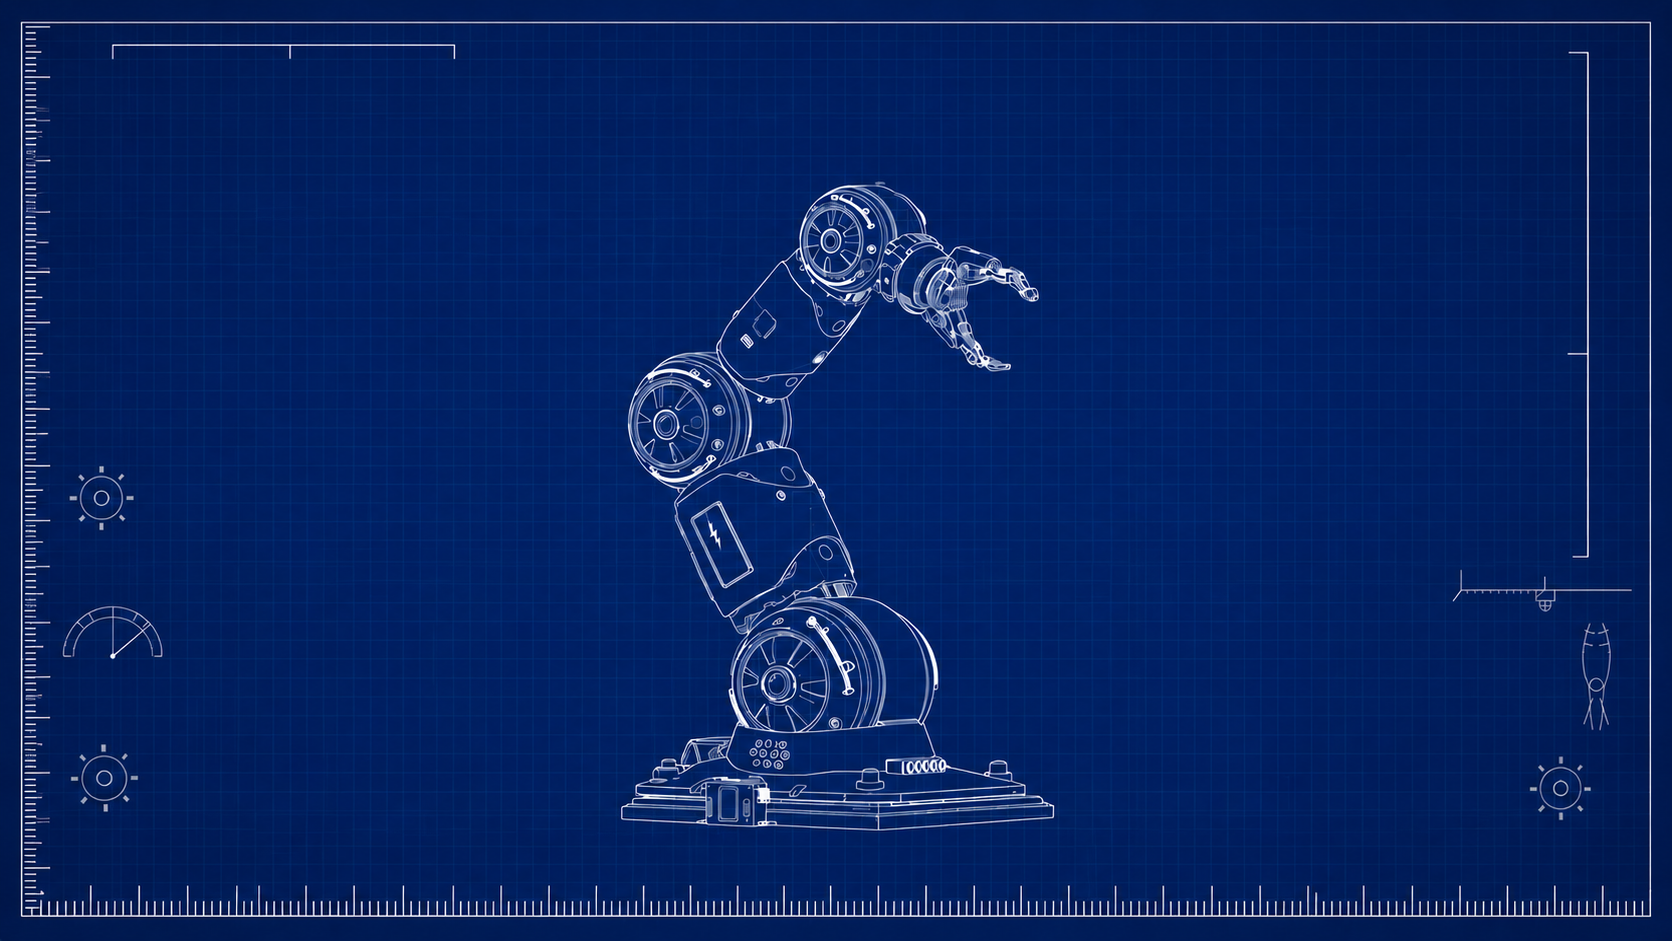
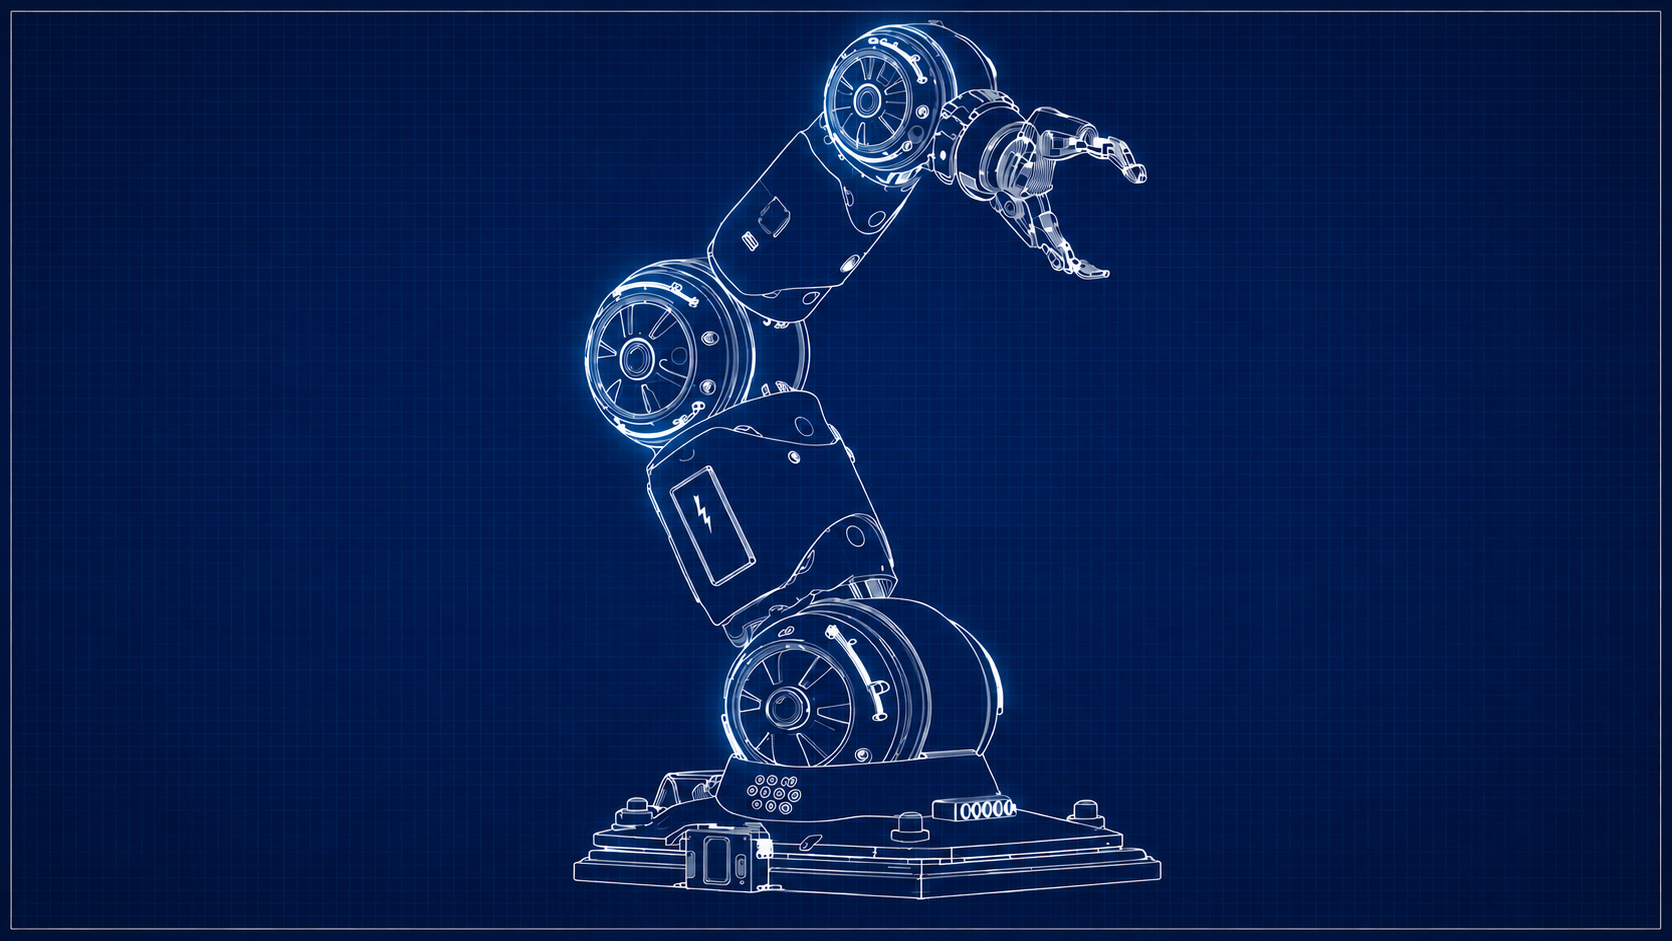
Swap arm artwork, recalibrate labels, add Contact axis, fix leader-line geometry bug

diff --git a/css/style.css b/css/style.css
@@ -182,7 +182,7 @@ html, body { height: 100%; overflow: hidden; }
     repeating-linear-gradient(90deg, rgba(255,255,255,0.16) 0 1px, transparent 1px 136px),
     repeating-linear-gradient(0deg, rgba(255,255,255,0.08) 0 1px, transparent 1px 34px),
     repeating-linear-gradient(90deg, rgba(255,255,255,0.08) 0 1px, transparent 1px 34px),
-    radial-gradient(ellipse at 50% 35%, #002a80 0%, #001f64 55%, #000f38 100%);
+    radial-gradient(ellipse at 50% 35%, #001f5c 0%, #00133e 55%, #000a22 100%);
   overflow: hidden;
 }
 .blueprint-hint {
@@ -205,7 +205,7 @@ html, body { height: 100%; overflow: hidden; }
 }
 .blueprint-arm-wrap {
   position: relative;
-  aspect-ratio: 1672 / 941;
+  aspect-ratio: 1671 / 941;
   max-width: 100%;
   max-height: 100%;
 }
@@ -233,7 +233,7 @@ html, body { height: 100%; overflow: hidden; }
   white-space: nowrap;
   text-shadow: 0 1px 5px rgba(0, 20, 70, 0.85);
 }
-.bp-fact-html.title { top: 1.5%; left: 50%; transform: translateX(-50%); font-size: 0.62rem; color: var(--accent); letter-spacing: 0.1em; }
+.bp-fact-html.title { bottom: 1.5%; left: 2%; font-size: 0.62rem; color: var(--accent); letter-spacing: 0.1em; }
 .bp-fact-html.corner.tr { top: 1.5%; right: 2%; }
 .bp-fact-html.corner.tr2 { top: 4.5%; right: 2%; }
 .bp-fact-html.corner.br { bottom: 5%; right: 2%; }
@@ -261,33 +261,41 @@ html, body { height: 100%; overflow: hidden; }
 }
 .arm-hotspot-leader {
   position: absolute;
-  background: rgba(255, 255, 255, 0.55);
-  transition: background 0.2s ease;
+  background: var(--accent);
+  opacity: 0.75;
+  box-shadow: 0 0 4px rgba(79, 195, 247, 0.6);
+  transition: opacity 0.2s ease;
 }
-.dir-right .arm-hotspot-leader { left: 0; top: 0; width: 68px; height: 1px; }
-.dir-left .arm-hotspot-leader { right: 0; top: 0; width: 68px; height: 1px; }
-.dir-up .arm-hotspot-leader { bottom: 0; left: 0; width: 1px; height: 68px; }
-.dir-down .arm-hotspot-leader { top: 0; left: 0; width: 1px; height: 68px; }
+.dir-right .arm-hotspot-leader { left: 0; top: 0; width: 95px; height: 1.5px; }
+.dir-left .arm-hotspot-leader { right: 0; top: 0; width: 100px; height: 1.5px; }
+.dir-up .arm-hotspot-leader { bottom: 0; left: 0; width: 1.5px; height: 90px; }
+.dir-down .arm-hotspot-leader { top: 0; left: 0; width: 1.5px; height: 90px; }
 .dir-up-right .arm-hotspot-leader,
 .dir-down-right .arm-hotspot-leader { display: none; }
 .dir-up-right .arm-hotspot-leader-h,
-.dir-down-right .arm-hotspot-leader-h { position: absolute; left: 0; width: 46px; height: 1px; background: rgba(255, 255, 255, 0.55); }
-.dir-up-right .arm-hotspot-leader-v { position: absolute; left: 0; width: 1px; height: 42px; background: rgba(255, 255, 255, 0.55); bottom: 0; }
-.dir-up-right .arm-hotspot-leader-h { bottom: 42px; }
-.dir-down-right .arm-hotspot-leader-v { position: absolute; left: 0; width: 1px; height: 42px; background: rgba(255, 255, 255, 0.55); top: 0; }
-.dir-down-right .arm-hotspot-leader-h { top: 42px; }
+.dir-down-right .arm-hotspot-leader-h { position: absolute; left: 0; width: 60px; height: 1.5px; background: var(--accent); opacity: 0.75; box-shadow: 0 0 4px rgba(79, 195, 247, 0.6); }
+.dir-up-right .arm-hotspot-leader-v { position: absolute; left: 0; width: 1.5px; height: 55px; background: var(--accent); opacity: 0.75; box-shadow: 0 0 4px rgba(79, 195, 247, 0.6); bottom: 0; }
+.dir-up-right .arm-hotspot-leader-h { bottom: 55px; }
+.dir-down-right .arm-hotspot-leader-v { position: absolute; left: 0; width: 1.5px; height: 55px; background: var(--accent); opacity: 0.75; box-shadow: 0 0 4px rgba(79, 195, 247, 0.6); top: 0; }
+.dir-down-right .arm-hotspot-leader-h { top: 55px; }
 .arm-hotspot-label {
   position: absolute;
   display: flex;
   flex-direction: column;
   font-family: var(--font-mono);
 }
-.dir-right .arm-hotspot-label { left: 72px; top: 50%; transform: translateY(-50%); }
-.dir-left .arm-hotspot-label { right: 72px; top: 50%; transform: translateY(-50%); text-align: right; }
-.dir-up .arm-hotspot-label { bottom: 72px; left: 50%; transform: translateX(-50%); text-align: center; }
-.dir-down .arm-hotspot-label { top: 72px; left: 50%; transform: translateX(-50%); text-align: center; }
-.dir-up-right .arm-hotspot-label { bottom: 46px; left: 46px; }
-.dir-down-right .arm-hotspot-label { top: 46px; left: 46px; }
+.dir-right .arm-hotspot-label { left: 99px; top: 50%; transform: translateY(-50%); }
+.dir-left .arm-hotspot-label { right: 104px; top: 50%; transform: translateY(-50%); text-align: right; }
+.dir-up .arm-hotspot-label { bottom: 94px; left: 50%; transform: translateX(-50%); text-align: center; }
+.dir-down .arm-hotspot-label { top: 94px; left: 50%; transform: translateX(-50%); text-align: center; }
+.dir-up-right .arm-hotspot-label { bottom: 59px; left: 64px; }
+.dir-down-right .arm-hotspot-label { top: 59px; left: 64px; }
+
+/* base/01 and knuckle/06 sit deep in the arm's glow - need extra reach to clear it */
+.arm-hotspot[data-card="about"] .arm-hotspot-leader-h { width: 170px; }
+.arm-hotspot[data-card="about"] .arm-hotspot-label { left: 174px; }
+.arm-hotspot[data-card="morebuilds"] .arm-hotspot-leader { width: 145px; }
+.arm-hotspot[data-card="morebuilds"] .arm-hotspot-label { left: 149px; }
 .arm-hotspot-label b { font-size: 0.72rem; font-weight: 700; color: #fff; letter-spacing: 0.03em; white-space: nowrap; text-shadow: 0 1px 4px rgba(0, 8, 30, 0.9), 0 0 10px rgba(0, 8, 30, 0.7); }
 .arm-hotspot:hover .arm-hotspot-dot,
 .arm-hotspot:focus-visible .arm-hotspot-dot { transform: scale(1.5); }
@@ -338,7 +346,7 @@ html, body { height: 100%; overflow: hidden; }
   z-index: 1;
   filter: drop-shadow(0 1px 3px rgba(0, 8, 30, 0.7));
 }
-.bp-tool-caliper { width: 200px; left: 63%; top: 2%; }
+.bp-tool-caliper { width: 130px; left: 3%; top: 16%; }
 .bp-tool-protractor { width: 150px; left: 76%; top: 46%; }
 .bp-tool-pliers { width: 46px; left: 88%; top: 68%; }
 .bp-pliers-arm-l { transform-origin: 0 0; animation: pliers-open-l 2.4s ease-in-out infinite alternate; }
@@ -419,18 +427,22 @@ html, body { height: 100%; overflow: hidden; }
   .bp-tool-standalone { display: none; }
   .gear-blueprint-1, .gear-blueprint-2 { display: none; }
   .bp-dim-line-v { height: 34px !important; }
-  .dir-right .arm-hotspot-leader, .dir-left .arm-hotspot-leader { width: 40px; }
-  .dir-up .arm-hotspot-leader, .dir-down .arm-hotspot-leader { height: 40px; }
-  .dir-right .arm-hotspot-label { left: 44px; }
-  .dir-left .arm-hotspot-label { right: 44px; }
-  .dir-up .arm-hotspot-label { bottom: 44px; }
-  .dir-down .arm-hotspot-label { top: 44px; }
-  .dir-up-right .arm-hotspot-leader-h, .dir-down-right .arm-hotspot-leader-h { width: 30px; }
-  .dir-up-right .arm-hotspot-leader-v, .dir-down-right .arm-hotspot-leader-v { left: 0; height: 26px; }
-  .dir-up-right .arm-hotspot-leader-h { bottom: 26px; }
-  .dir-down-right .arm-hotspot-leader-h { top: 26px; }
-  .dir-up-right .arm-hotspot-label { bottom: 30px; left: 30px; }
-  .dir-down-right .arm-hotspot-label { top: 30px; left: 30px; }
+  .dir-right .arm-hotspot-leader, .dir-left .arm-hotspot-leader { width: 58px; }
+  .dir-up .arm-hotspot-leader, .dir-down .arm-hotspot-leader { height: 58px; }
+  .dir-right .arm-hotspot-label { left: 62px; }
+  .dir-left .arm-hotspot-label { right: 62px; }
+  .dir-up .arm-hotspot-label { bottom: 62px; }
+  .dir-down .arm-hotspot-label { top: 62px; }
+  .dir-up-right .arm-hotspot-leader-h, .dir-down-right .arm-hotspot-leader-h { width: 40px; }
+  .dir-up-right .arm-hotspot-leader-v, .dir-down-right .arm-hotspot-leader-v { left: 0; height: 36px; }
+  .dir-up-right .arm-hotspot-leader-h { bottom: 36px; }
+  .dir-down-right .arm-hotspot-leader-h { top: 36px; }
+  .dir-up-right .arm-hotspot-label { bottom: 40px; left: 40px; }
+  .dir-down-right .arm-hotspot-label { top: 40px; left: 40px; }
+  .arm-hotspot[data-card="about"] .arm-hotspot-leader-h { width: 110px; }
+  .arm-hotspot[data-card="about"] .arm-hotspot-label { left: 114px; }
+  .arm-hotspot[data-card="morebuilds"] .arm-hotspot-leader { width: 100px; }
+  .arm-hotspot[data-card="morebuilds"] .arm-hotspot-label { left: 104px; }
   .tb-footer-note { display: none; }
   .arm-hotspot-label b { font-size: 0.62rem; }
   .bp-fact-html { font-size: 0.5rem; }
@@ -507,6 +519,7 @@ html, body { height: 100%; overflow: hidden; }
 .gear-hardware-3 { top: 58%; left: 600px; width: 100px; height: 100px; opacity: 0.45; }
 .gear-awards-1 { bottom: 1rem; left: -4rem; }
 .gear-awards-2 { top: 1rem; right: -4rem; }
+.gear-contact-1 { top: 1rem; right: -4rem; }
 
 .overline {
   font-family: var(--font-mono);

diff --git a/index.html b/index.html
@@ -22,7 +22,7 @@
 <link rel="preconnect" href="https://fonts.googleapis.com">
 <link rel="preconnect" href="https://fonts.gstatic.com" crossorigin>
 <link href="https://fonts.googleapis.com/css2?family=Space+Grotesk:wght@400;500;600;700&family=JetBrains+Mono:wght@400;500;600&family=Inter:wght@400;500;600;700&family=Caveat:wght@500;600&display=swap" rel="stylesheet">
-<link rel="stylesheet" href="css/style.css?v=79">
+<link rel="stylesheet" href="css/style.css?v=89">
 
 <script type="application/ld+json">
 {
@@ -69,18 +69,6 @@
     <h1 class="hero-title tb-title"><span class="accent-underline">engineering</span> in the bay</h1>
     <div class="tb-name">VARUN CHILUKURI</div>
     <p class="tb-overline"><span class="dot"></span> STUDENT @ LELAND HIGH SCHOOL · 2× BAY AREA HACKATHON AWARD RECIPIENT</p>
-    <div class="tb-meta"><span>DWG NO. 001</span><span>SCALE NTS</span><span>SHEET 1/1</span></div>
-    <div class="tb-contact-label">CONTACT</div>
-    <div class="tb-contact">
-      <a href="mailto:varunchilukuri7@gmail.com">varunchilukuri7@gmail.com</a>
-      <a href="https://github.com/vrun-systems26" target="_blank" rel="noopener">GitHub ↗</a>
-      <a href="https://www.linkedin.com/in/varunchilukuri26/" target="_blank" rel="noopener">LinkedIn ↗</a>
-      <a href="https://devpost.com/varunchilukuri7" target="_blank" rel="noopener">Devpost ↗</a>
-    </div>
-    <div class="tb-footer-note">
-      <p>© <span id="year"></span> Varun Chilukuri</p>
-      <p>pro tip: keep capacitors away from wall sockets</p>
-    </div>
   </div>
 
   <p class="blueprint-hint">SELECT A PART TO EXPLORE <span class="hint-arrow">↓</span></p>
@@ -114,54 +102,59 @@
       <span class="bp-dim-text bp-dim-text-v">142mm</span>
     </div>
 
-    <a href="#" class="arm-hotspot dir-down-right" data-card="about" aria-label="Open About" style="left:51.1%; top:82%;">
+    <a href="#" class="arm-hotspot dir-down-right" data-card="about" aria-label="Open About" style="left:51.2%; top:82%;">
       <span class="arm-hotspot-dot"></span>
       <span class="arm-hotspot-leader-h"></span>
       <span class="arm-hotspot-leader-v"></span>
       <span class="arm-hotspot-label"><b>01 BASE</b></span>
     </a>
 
-    <a href="#" class="arm-hotspot dir-left" data-card="fetch" aria-label="Open Fetch" style="left:50.2%; top:69.1%;">
+    <a href="#" class="arm-hotspot dir-left" data-card="fetch" aria-label="Open Fetch" style="left:49.9%; top:69.6%;">
       <span class="arm-hotspot-dot"></span>
       <span class="arm-hotspot-leader"></span>
       <span class="arm-hotspot-label"><b>02 SHOULDER</b></span>
     </a>
 
-    <a href="#" class="arm-hotspot dir-left" data-card="street-sweeper" aria-label="Open Street Sweeper" style="left:41.6%; top:43%;">
+    <a href="#" class="arm-hotspot dir-left" data-card="street-sweeper" aria-label="Open Street Sweeper" style="left:39.2%; top:35.6%;">
       <span class="arm-hotspot-dot"></span>
       <span class="arm-hotspot-leader"></span>
       <span class="arm-hotspot-label"><b>03 ELBOW</b></span>
     </a>
 
-    <a href="#" class="arm-hotspot dir-left" data-card="hope" aria-label="Open Hope" style="left:46.1%; top:57.4%;">
+    <a href="#" class="arm-hotspot dir-left" data-card="hope" aria-label="Open Hope" style="left:43.1%; top:56.3%;">
       <span class="arm-hotspot-dot"></span>
       <span class="arm-hotspot-leader"></span>
       <span class="arm-hotspot-label"><b>04 FOREARM</b></span>
     </a>
 
-    <a href="#" class="arm-hotspot dir-up" data-card="arm" aria-label="Open HocDiuTempusSumpsit" style="left:47.2%; top:31.9%;">
+    <a href="#" class="arm-hotspot dir-up" data-card="arm" aria-label="Open HocDiuTempusSumpsit" style="left:46.4%; top:22.3%;">
       <span class="arm-hotspot-dot"></span>
       <span class="arm-hotspot-leader"></span>
       <span class="arm-hotspot-label"><b>05 WRIST</b></span>
     </a>
 
-    <a href="#" class="arm-hotspot dir-up-right" data-card="morebuilds" aria-label="Open More Builds" style="left:51.1%; top:22.8%;">
+    <a href="#" class="arm-hotspot dir-right" data-card="morebuilds" aria-label="Open More Builds" style="left:51.4%; top:8%;">
       <span class="arm-hotspot-dot"></span>
-      <span class="arm-hotspot-leader-h"></span>
-      <span class="arm-hotspot-leader-v"></span>
+      <span class="arm-hotspot-leader"></span>
       <span class="arm-hotspot-label"><b>06 KNUCKLE</b></span>
     </a>
 
-    <a href="#" class="arm-hotspot dir-right" data-card="skills" aria-label="Open Skills" style="left:63%; top:39.5%;">
+    <a href="#" class="arm-hotspot dir-right" data-card="skills" aria-label="Open Skills" style="left:65.2%; top:23.4%;">
       <span class="arm-hotspot-dot"></span>
       <span class="arm-hotspot-leader"></span>
       <span class="arm-hotspot-label"><b>07 GRIPPER</b></span>
     </a>
 
-    <a href="#" class="arm-hotspot dir-down" data-card="awards" aria-label="Open Awards" style="left:55%; top:26.6%;">
+    <a href="#" class="arm-hotspot dir-down" data-card="awards" aria-label="Open Awards" style="left:57.7%; top:14.9%;">
       <span class="arm-hotspot-dot"></span>
       <span class="arm-hotspot-leader"></span>
       <span class="arm-hotspot-label"><b>08 COUPLING</b></span>
+    </a>
+
+    <a href="#" class="arm-hotspot dir-left" data-card="contact" aria-label="Open Contact" style="left:38.3%; top:85.5%;">
+      <span class="arm-hotspot-dot"></span>
+      <span class="arm-hotspot-leader"></span>
+      <span class="arm-hotspot-label"><b>09 CONTACT</b></span>
     </a>
     <svg class="bp-tool bp-tool-standalone bp-tool-caliper" viewBox="0 0 240 80" aria-hidden="true">
       <line x1="12" y1="12" x2="12" y2="34" stroke-width="2.4"/>
@@ -634,6 +627,31 @@
 </section>
 </div>
 
-<script src="js/script.js?v=16"></script>
+<!-- ============ CONTACT ============ -->
+<div class="card" data-card="contact">
+  <button class="card-close" data-close aria-label="Close">✕</button>
+<section class="section contact">
+  <div class="gear-mark gear-tiny gear-contact-1" aria-hidden="true">
+    <svg viewBox="0 0 100 100" class="spin-slow"><g fill="currentColor"><rect x="47" y="4" width="6" height="10"/><rect x="47" y="4" width="6" height="10" transform="rotate(45 50 50)"/><rect x="47" y="4" width="6" height="10" transform="rotate(90 50 50)"/><rect x="47" y="4" width="6" height="10" transform="rotate(135 50 50)"/><rect x="47" y="4" width="6" height="10" transform="rotate(180 50 50)"/><rect x="47" y="4" width="6" height="10" transform="rotate(225 50 50)"/><rect x="47" y="4" width="6" height="10" transform="rotate(270 50 50)"/><rect x="47" y="4" width="6" height="10" transform="rotate(315 50 50)"/></g><circle cx="50" cy="50" r="30" fill="none" stroke="currentColor" stroke-width="1.4" vector-effect="non-scaling-stroke"/><circle cx="50" cy="50" r="10" fill="none" stroke="currentColor" stroke-width="1.4" vector-effect="non-scaling-stroke"/></svg>
+  </div>
+  <div class="contact-inner">
+    <span class="section-num">PART 09</span>
+    <h2>Let's build something.</h2>
+    <p class="contact-subtitle">Reach out, or check out what I've been working on.</p>
+    <a href="mailto:varunchilukuri7@gmail.com" class="contact-email">varunchilukuri7@gmail.com</a>
+    <div class="contact-links">
+      <a href="https://github.com/vrun-systems26" target="_blank" rel="noopener">GitHub ↗</a>
+      <a href="https://www.linkedin.com/in/varunchilukuri26/" target="_blank" rel="noopener">LinkedIn ↗</a>
+      <a href="https://devpost.com/varunchilukuri7" target="_blank" rel="noopener">Devpost ↗</a>
+    </div>
+    <div class="card-footer-note">
+      <p>© <span class="js-year"></span> Varun Chilukuri</p>
+      <p>pro tip: keep capacitors away from wall sockets</p>
+    </div>
+  </div>
+</section>
+</div>
+
+<script src="js/script.js?v=17"></script>
 </body>
 </html>

diff --git a/js/script.js b/js/script.js
@@ -1,5 +1,7 @@
 // ---------- year ----------
-document.getElementById("year").textContent = new Date().getFullYear();
+document.querySelectorAll(".js-year").forEach((el) => {
+  el.textContent = new Date().getFullYear();
+});
 
 // ---------- mobile nav ----------
 const navToggle = document.getElementById("navToggle");
